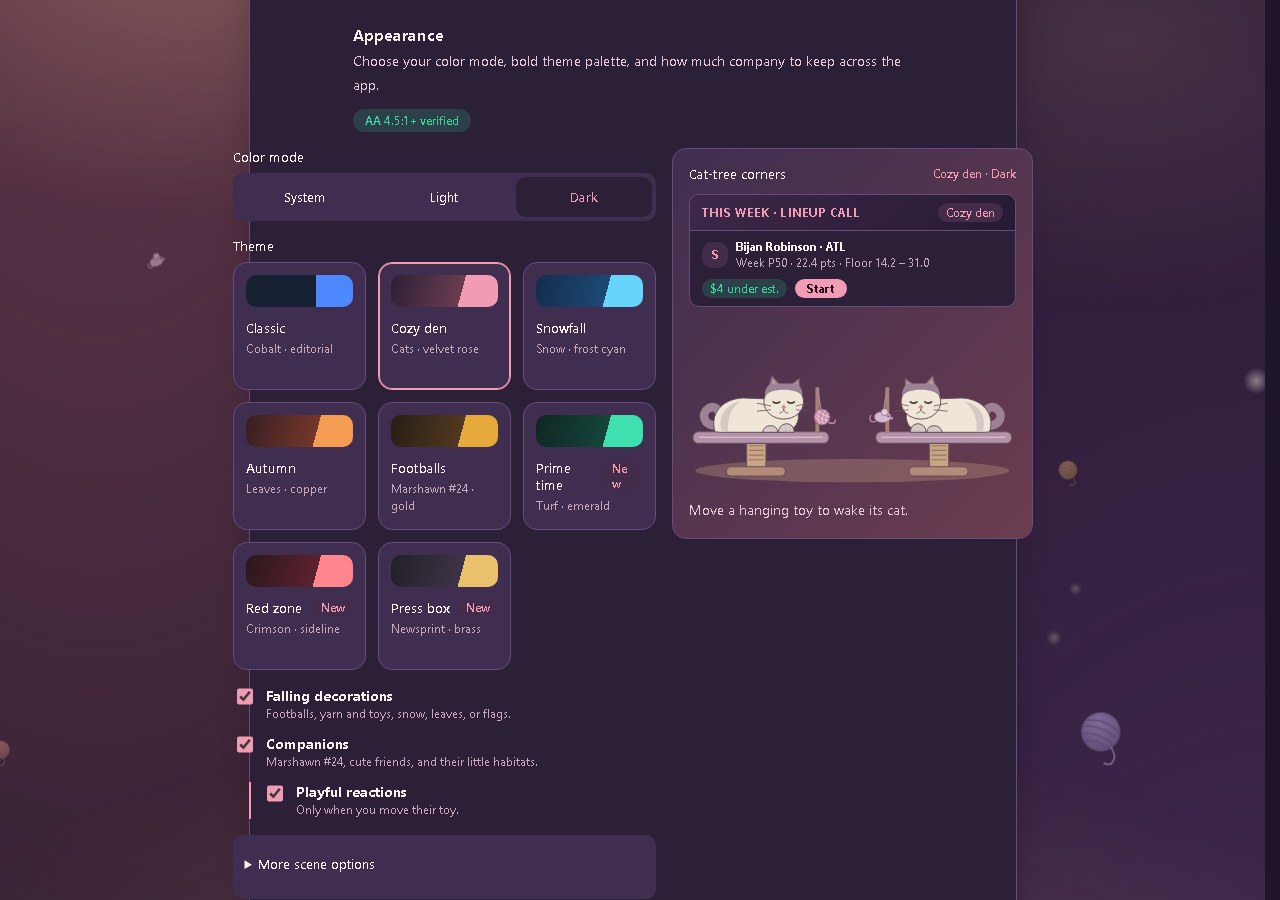
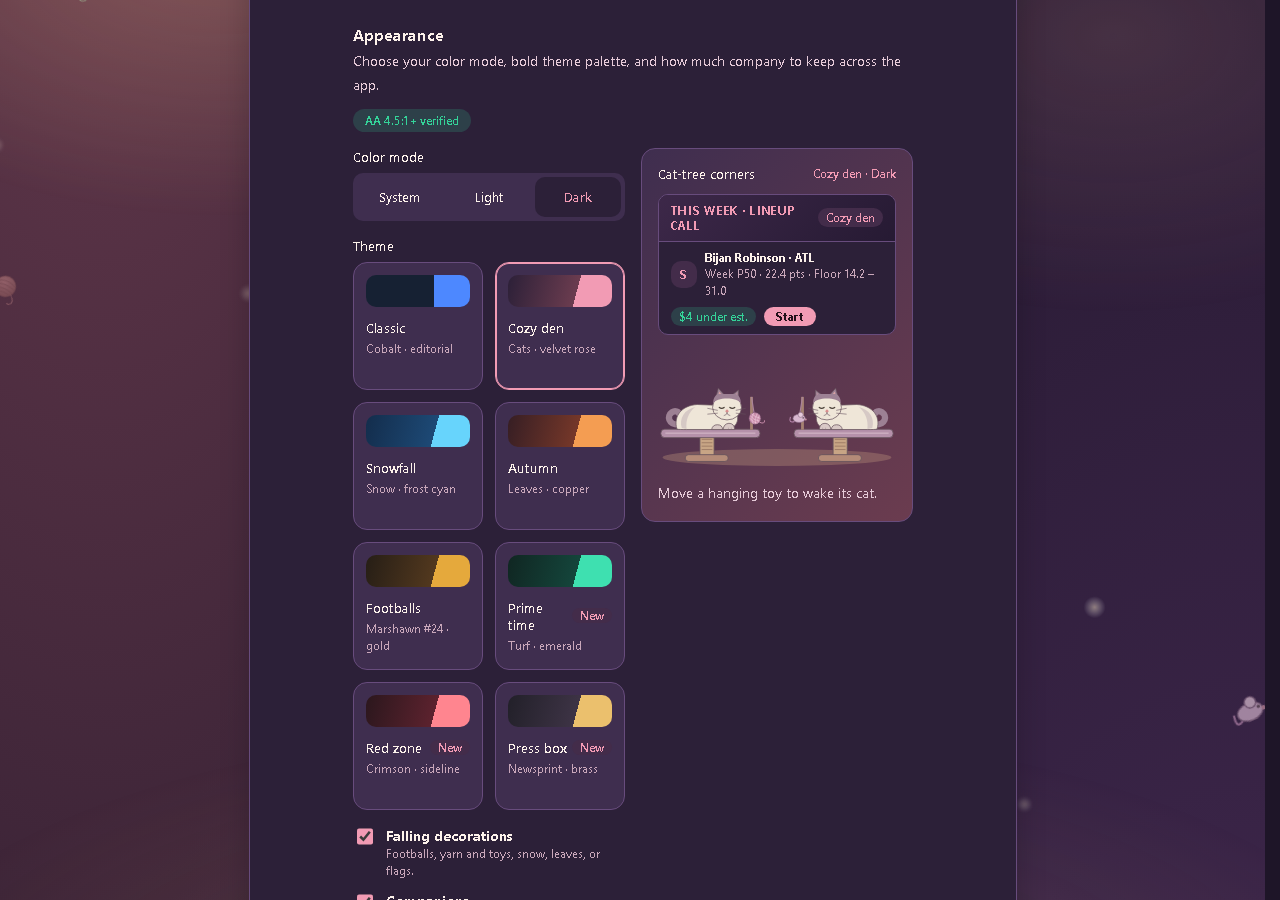
Align Appearance workbench to Account column; surface rejected themes
Keep the two-column workbench inside the Account column, stop New badges and preview chips from wrapping, and show an error (restoring the previous theme) when the server stores a different theme than requested. Add backend round-trip/parity tests and browser checks for Prime time, Red zone, and Press box.

diff --git a/frontend/src/styles/appearance.css b/frontend/src/styles/appearance.css
@@ -266,7 +266,8 @@
 .appearance-head h3 { margin: 0 0 var(--space-1); }
 .appearance-head p { margin: 0; }
 .appearance-contrast-badge { display: inline-flex; align-items: center; padding: var(--space-1) var(--space-3); border-radius: var(--radius-pill); background: var(--tone-positive-soft); color: var(--tone-positive); font-size: var(--text-xs); font-weight: var(--font-weight-medium); }
-.appearance-workbench { display: grid; grid-template-columns: minmax(0, 1.08fr) minmax(17.5rem, 0.92fr); gap: var(--space-4); align-items: start; width: min(50rem, calc(100vw - var(--space-8))); margin-inline: calc(50% - min(25rem, calc(50vw - var(--space-6)))); }
+/* Stays inside the Account column so headings, controls and preview share its left edge. */
+.appearance-workbench { display: grid; grid-template-columns: minmax(0, 1fr) minmax(0, 1fr); gap: var(--space-4); align-items: start; }
 .appearance-workbench-controls, .appearance-workbench-stage { display: grid; gap: var(--space-4); min-width: 0; }
 .appearance-workbench-stage { position: sticky; top: var(--space-4); }
 .appearance-scene-preview { display: grid; gap: var(--space-3); padding: var(--space-4); border-radius: var(--radius-md); border: 1px solid var(--border); background: linear-gradient(135deg, var(--bg-subtle), var(--appearance-wash, var(--bg-base))); }
@@ -276,7 +277,7 @@
 .appearance-sample-card { border: 1px solid var(--border); border-radius: var(--radius-sm); background: var(--bg-elevated); overflow: hidden; }
 .appearance-sample-hero { display: flex; align-items: center; justify-content: space-between; gap: var(--space-2); padding: var(--space-2) var(--space-3); background: var(--appearance-hero, var(--bg-subtle)); border-bottom: 1px solid var(--border); }
 .appearance-sample-kicker { font-size: var(--text-xs); font-weight: var(--font-weight-bold); color: var(--accent); text-transform: uppercase; letter-spacing: 0.06em; }
-.appearance-sample-chip { padding: 2px var(--space-2); border-radius: var(--radius-pill); background: var(--accent-soft); color: var(--accent); font-size: var(--text-xs); font-weight: var(--font-weight-medium); }
+.appearance-sample-chip { flex: none; white-space: nowrap; padding: 2px var(--space-2); border-radius: var(--radius-pill); background: var(--accent-soft); color: var(--accent); font-size: var(--text-xs); font-weight: var(--font-weight-medium); }
 .appearance-sample-row { display: flex; align-items: center; justify-content: space-between; gap: var(--space-2); padding: var(--space-2) var(--space-3); flex-wrap: wrap; }
 .appearance-sample-player { display: flex; align-items: center; gap: var(--space-2); min-width: 0; }
 .appearance-sample-tier { display: inline-flex; align-items: center; justify-content: center; width: 1.65rem; height: 1.65rem; border-radius: var(--radius-sm); background: var(--accent-soft); color: var(--accent); font-size: var(--text-xs); font-weight: var(--font-weight-bold); flex: none; }
@@ -284,7 +285,7 @@
 .appearance-sample-meta strong { display: block; font-size: var(--text-xs); white-space: nowrap; overflow: hidden; text-overflow: ellipsis; }
 .appearance-sample-meta small { display: block; font-size: var(--text-xs); color: var(--text-muted); }
 .appearance-sample-actions { display: flex; align-items: center; gap: var(--space-2); flex: none; }
-.appearance-sample-delta { padding: 2px var(--space-2); border-radius: var(--radius-pill); background: var(--tone-positive-soft); color: var(--tone-positive); font-size: var(--text-xs); font-weight: var(--font-weight-medium); }
+.appearance-sample-delta { white-space: nowrap; padding: 2px var(--space-2); border-radius: var(--radius-pill); background: var(--tone-positive-soft); color: var(--tone-positive); font-size: var(--text-xs); font-weight: var(--font-weight-medium); }
 .appearance-sample-cta { padding: 2px var(--space-3); border-radius: var(--radius-pill); background: var(--accent); color: var(--appearance-action-ink, #fff); font-size: var(--text-xs); font-weight: var(--font-weight-bold); }
 .appearance-scene-preview > p { margin: 0; }
 .appearance-scene-preview .companion-scene { width: min(100%, 26.25rem); justify-self: center; }
@@ -306,11 +307,11 @@
 .appearance-mode-options span { display: flex; align-items: center; justify-content: center; min-height: var(--control-h-md); padding: var(--space-2) var(--space-3); border-radius: var(--radius-sm); font-size: var(--text-sm); }
 .appearance-mode-options input:checked + span { background: var(--bg-elevated); color: var(--accent); font-weight: var(--font-weight-medium); }
 .appearance-mode-options input:focus-visible + span, .appearance-theme-choice input:focus-visible + span { outline: 2px solid var(--accent-muted); outline-offset: 2px; }
-.appearance-theme-options { --appearance-choice-min: 8rem; display: grid; grid-template-columns: repeat(auto-fill, minmax(var(--appearance-choice-min), 1fr)); gap: var(--space-3); }
+.appearance-theme-options { --appearance-choice-min: 7.5rem; display: grid; grid-template-columns: repeat(auto-fill, minmax(var(--appearance-choice-min), 1fr)); gap: var(--space-3); }
 .appearance-theme-card { display: flex; flex-direction: column; gap: var(--space-1); padding: var(--space-3); border: 1px solid var(--border); border-radius: var(--radius-md); min-height: 8rem; background: var(--bg-subtle); }
 .appearance-theme-card-head { display: flex; align-items: center; justify-content: space-between; gap: var(--space-1); }
 .appearance-theme-card strong { font-size: var(--text-sm); font-weight: var(--font-weight-medium); }
-.appearance-theme-badge { font-style: normal; font-size: var(--text-xs); padding: 0 var(--space-2); border-radius: var(--radius-pill); background: var(--accent-soft); color: var(--accent); font-weight: var(--font-weight-medium); }
+.appearance-theme-badge { flex: none; white-space: nowrap; font-style: normal; font-size: var(--text-xs); padding: 0 var(--space-2); border-radius: var(--radius-pill); background: var(--accent-soft); color: var(--accent); font-weight: var(--font-weight-medium); }
 .appearance-theme-card small { font-size: var(--text-xs); color: var(--text-muted); }
 .appearance-theme-choice input:checked + span { border-color: var(--accent); box-shadow: inset 0 0 0 1px var(--accent); }
 .appearance-theme-choice input:disabled + span, .appearance-mode-options input:disabled + span { opacity: .65; }
@@ -330,7 +331,7 @@
 .appearance-details .account-atmosphere-options { margin-top: var(--space-3); }
 .appearance-save-status { min-height: var(--space-5); }
 @media (max-width: 900px) {
-  .appearance-workbench { grid-template-columns: 1fr; width: 100%; margin-inline: 0; }
+  .appearance-workbench { grid-template-columns: 1fr; }
   .appearance-workbench-stage { position: static; }
 }
 @media (max-width: 768px) {

diff --git a/frontend/src/livingSurfaces.js b/frontend/src/livingSurfaces.js
@@ -462,7 +462,7 @@ export const LIVING_SURFACES = Object.freeze({
     page: "frontend/src/AccountSettingsPage.jsx",
     copy: "frontend/src/themePresentation.js",
     also: ["frontend/src/AccountAuth.jsx", "frontend/src/AppearanceSettings.jsx", "frontend/src/AppearanceProvider.jsx", "frontend/src/DraftHub/AtmosphereLayer.jsx", "frontend/src/DraftHub/CompanionScene.jsx", "frontend/src/DraftHub/atmosphereCatalog.js", "frontend/src/styles/appearance.css"],
-    doNot: "Account-only. Do not add Account to top-level nav. Approved Appearance applies cohesive vibrant themes with theme-specific accents and hero washes across the app, using the approved B two-column live workbench on desktop. Keep System/Light/Dark separate from the account theme; falling decorations, companions, and toy-only reactions are independent. Use the approved cat-tree, snowman, squirrel, Marshawn/Skittles, Prime time pylon, Red zone marker, and Press box owl scenes, bounded dragging with invisible movement limits and release physics. Preserve recognizable artwork, readable boards, reduced motion, and draft workspace clarity. Failed saves restore the previous choice.",
+    doNot: "Account-only. Do not add Account to top-level nav. Approved Appearance applies cohesive vibrant themes with theme-specific accents and hero washes across the app, using the approved B two-column live workbench inside the Account column on desktop (no breakout past the section heading). A theme the server does not accept shows an error and restores the previous theme. Keep System/Light/Dark separate from the account theme; falling decorations, companions, and toy-only reactions are independent. Use the approved cat-tree, snowman, squirrel, Marshawn/Skittles, Prime time pylon, Red zone marker, and Press box owl scenes, bounded dragging with invisible movement limits and release physics. Preserve recognizable artwork, readable boards, reduced motion, and draft workspace clarity. Failed saves restore the previous choice.",
   }),
   "account.report": S({
     label: "Report a bug",

diff --git a/frontend/src/AppearanceProvider.jsx b/frontend/src/AppearanceProvider.jsx
@@ -72,6 +72,13 @@ export function AppearanceProvider({ children }) {
       if (!response.ok) throw new Error(await parseApiError(response));
       const data = await response.json();
       if (epoch.current !== generation) return;
+      // An older server coerces themes it does not know to Classic. Say so
+      // instead of silently snapping the picker back with "saved".
+      if (patch.atmosphere && mergeAtmospherePrefs(data.prefs).atmosphere !== patch.atmosphere) {
+        if (appearanceStore.getSnapshot() === optimistic) appearanceStore.set(previous);
+        setError(APPEARANCE_COPY.unavailable);
+        return;
+      }
       if (appearanceStore.getSnapshot() === optimistic) appearanceStore.set(serializeAtmospherePrefs(mergeAtmospherePrefs(data.prefs)));
       setMessage(APPEARANCE_COPY.saved);
     } catch (err) {

diff --git a/frontend/src/themePresentation.js b/frontend/src/themePresentation.js
@@ -71,6 +71,7 @@ export const APPEARANCE_COPY = Object.freeze({
   saving: "Saving appearance…",
   loading: "Loading your appearance…",
   failed: "Could not save appearance. Your previous settings are restored.",
+  unavailable: "That theme isn't available on the server yet. Your previous theme is restored.",
   loadFailed: "Could not load your saved appearance. Try again before changing it.",
   retry: "Try again",
   still: "Keep just the falling decorations, a still companion scene, or only the colors. Reduced motion keeps every scene still. Draft workspaces stay clear.",

diff --git a/tests/test_appearance_new_themes.py b/tests/test_appearance_new_themes.py
@@ -1,0 +1,43 @@
+"""Every Appearance theme offered in Account must persist through the prefs API."""
+
+import pytest
+from fastapi.testclient import TestClient
+
+from app.api import app
+from app.auth import require_hub_user
+from src.draft_hub.league_atmosphere import ATMOSPHERE_THEMES
+
+
+@pytest.fixture(autouse=True)
+def _clear_hub_auth_override():
+    yield
+    app.dependency_overrides.pop(require_hub_user, None)
+
+
+@pytest.mark.parametrize("theme", [t for t in ATMOSPHERE_THEMES if t != "none"])
+def test_every_offered_theme_round_trips(hub_db, theme):
+    app.dependency_overrides[require_hub_user] = lambda: {"sub": f"theme-{theme}", "auth_type": "dev"}
+    client = TestClient(app)
+    saved = client.patch("/api/hub/prefs", json={"atmosphere": theme})
+    assert saved.status_code == 200
+    assert saved.json()["prefs"]["atmosphere"] == theme
+    assert client.get("/api/hub/prefs").json()["prefs"]["atmosphere"] == theme
+
+
+def test_frontend_offers_exactly_the_backend_themes():
+    from pathlib import Path
+    import re
+
+    root = Path(__file__).resolve().parents[1]
+    catalog = (root / "frontend/src/DraftHub/atmosphereCatalog.js").read_text(encoding="utf-8")
+    init = (root / "frontend/public/theme-init.js").read_text(encoding="utf-8")
+    copy = (root / "frontend/src/themePresentation.js").read_text(encoding="utf-8")
+    css = (root / "frontend/src/styles/appearance.css").read_text(encoding="utf-8")
+    js_themes = set(re.search(r"ATMOSPHERE_THEMES = \[([^\]]+)\]", catalog).group(1).replace('"', "").replace(" ", "").split(","))
+    init_themes = set(re.search(r"const themes = \[([^\]]+)\]", init).group(1).replace('"', "").replace(" ", "").split(","))
+    assert js_themes == set(ATMOSPHERE_THEMES) == init_themes
+    for theme in ATMOSPHERE_THEMES:
+        assert f'id: "{theme}"' in copy, f"{theme} missing from the Account picker"
+        assert f"{theme}: {{ light:" in init, f"{theme} missing a first-paint canvas"
+        if theme != "none":
+            assert f':root[data-experience-theme="{theme}"]' in css, f"{theme} has no palette"

diff --git a/docs/PRODUCT.md b/docs/PRODUCT.md
@@ -186,7 +186,7 @@ Dark and light modes. Matte, editorial, layered. Sports-product energy without c
 
 Classic light mode follows the approved soft-canvas B concept: pale neutral canvas, white surfaces, navy text, green current context, and teal healthy states. Classic dark mode keeps its blue accent. A sun/moon control beside the desktop account menu and a labeled switch in phone More change modes immediately. Account Appearance offers System, Light, and Dark. Dark remains the first-visit default; color mode persists per browser and applies before first paint. System follows device changes.
 
-The approved September 30 Appearance themes are Classic, Cozy den, Snowfall, Autumn, and the existing Footballs preset, plus Prime time, Red zone, and Press box. Each has coordinated light and dark palettes, theme-specific accents, and hero washes across Projections, Fantasy, Tools, and Account: navigation, cards, boards, menus, sheets, and room surfaces share the selected palette. Cozy den uses velvet plum, fireside peach, and rose-coral accents with falling yarn/mouse toys and two ragdolls on cushioned cat trees; Snowfall uses glacial blue and frost cyan with falling snow and a mitten-waving snowman; Autumn uses roasted espresso and burnished copper with tumbling leaves and a squirrel on a stump. Footballs keeps its game-day turf, pigskin, and action-gold palette with falling footballs, the approved Marshawn-inspired #24 companion, Skittles, and a static Henny bottle on his side table. Prime time uses stadium turf and electric emerald with a sideline pylon and penalty flag; Red zone uses crimson slate and scarlet with a 1st-down marker; Press box uses newsprint parchment, ink, and editorial brass with a desk owl. Account Appearance uses the approved B two-column live workbench on desktop (controls left, sticky live board and companion preview right). Keep their vibrance and recognizable artwork. Uploaded team banners, jerseys, and semantic success, warning, and danger colors retain their meaning.
+The approved September 30 Appearance themes are Classic, Cozy den, Snowfall, Autumn, and the existing Footballs preset, plus Prime time, Red zone, and Press box. Each has coordinated light and dark palettes, theme-specific accents, and hero washes across Projections, Fantasy, Tools, and Account: navigation, cards, boards, menus, sheets, and room surfaces share the selected palette. Cozy den uses velvet plum, fireside peach, and rose-coral accents with falling yarn/mouse toys and two ragdolls on cushioned cat trees; Snowfall uses glacial blue and frost cyan with falling snow and a mitten-waving snowman; Autumn uses roasted espresso and burnished copper with tumbling leaves and a squirrel on a stump. Footballs keeps its game-day turf, pigskin, and action-gold palette with falling footballs, the approved Marshawn-inspired #24 companion, Skittles, and a static Henny bottle on his side table. Prime time uses stadium turf and electric emerald with a sideline pylon and penalty flag; Red zone uses crimson slate and scarlet with a 1st-down marker; Press box uses newsprint parchment, ink, and editorial brass with a desk owl. Account Appearance uses the approved B two-column live workbench on desktop, inside the Account column (controls left, sticky live board and companion preview right). A theme the server does not accept shows an error and restores the previous theme instead of silently reverting to Classic. Keep their vibrance and recognizable artwork. Uploaded team banners, jerseys, and semantic success, warning, and danger colors retain their meaning.
 
 Themes are account preferences, independent of browser color mode. Falling decorations, Companions, and Playful reactions are independently saved switches. Companions react only when their own prop is moved, never to general page pointer movement. Props move within an invisible 100-unit square; never draw the movement boundary. Release uses gravity, a damped hanging tether or ground bounce and friction, then stops at rest. Eyes follow the prop relative to the actual face, including mirrored cats. Provide 44px pointer/touch targets and arrow-key, Enter, and Space controls. Companions off removes habitats and ground; falling off removes particles; both off keeps only the palette. Existing Atmosphere/Motion-off preferences retain their quieter behavior. Reduced motion always wins. Existing pile, wash, and intensity options remain available under More scene options. Scenes sit behind functional content with a dedicated ground area and one continuous base across wide screens; draft workspaces remain clear. Ground scenes wait for the active page's initial loading and layout to finish. Hidden cached panes and completed empty or error states do not hold them back. Load preferences once in the shared app shell, cache appearance before first paint, and restore the previous preference with a visible error after failed saves. Themes never change scoring, contracts, page destinations, or saved league focus.
 
